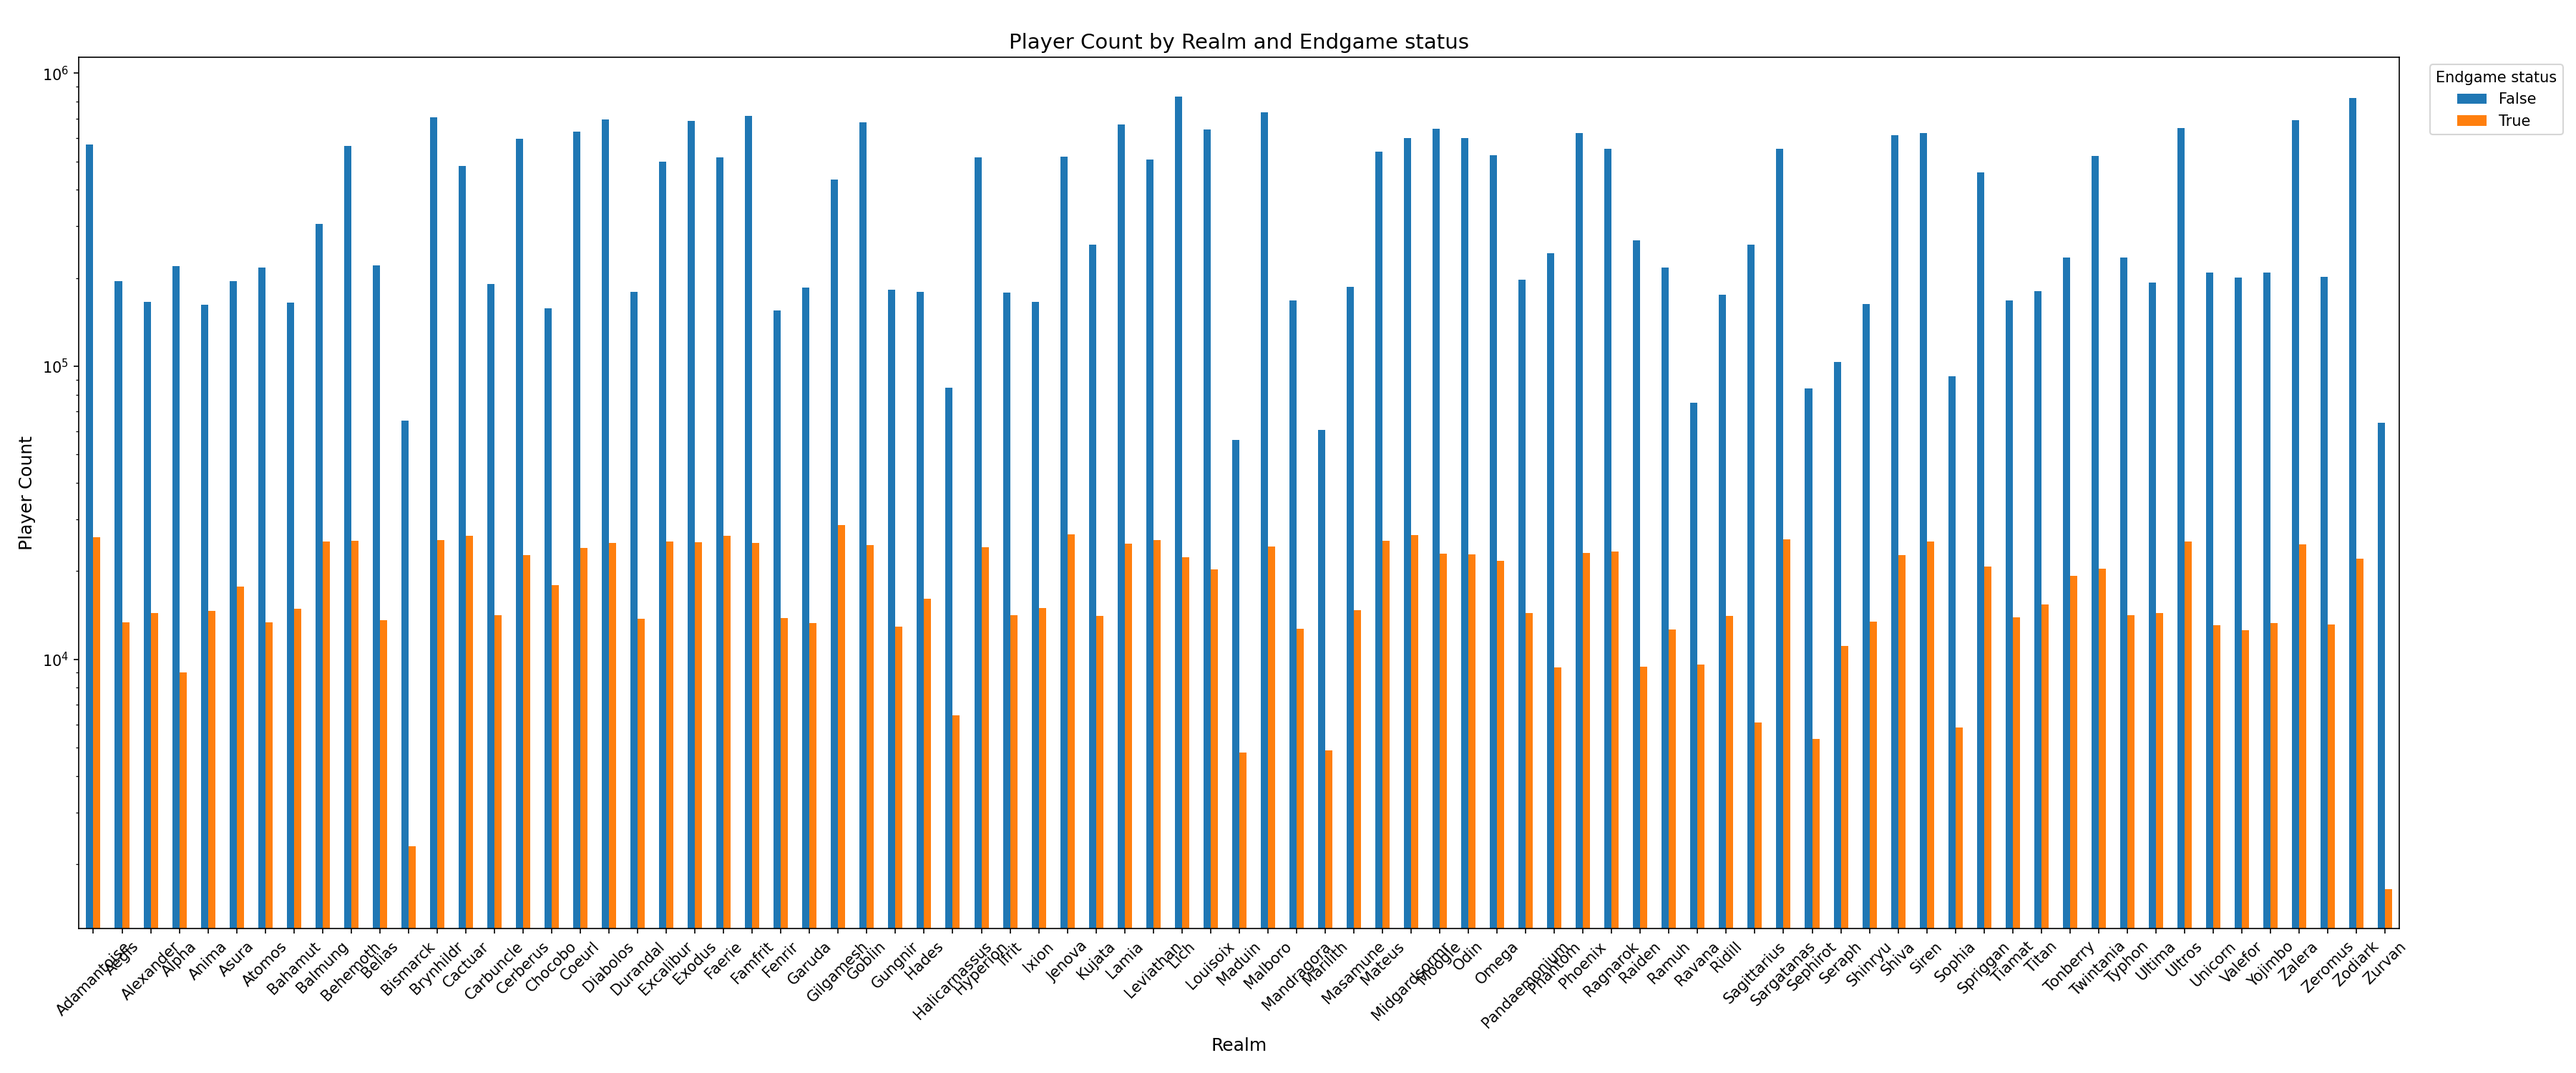
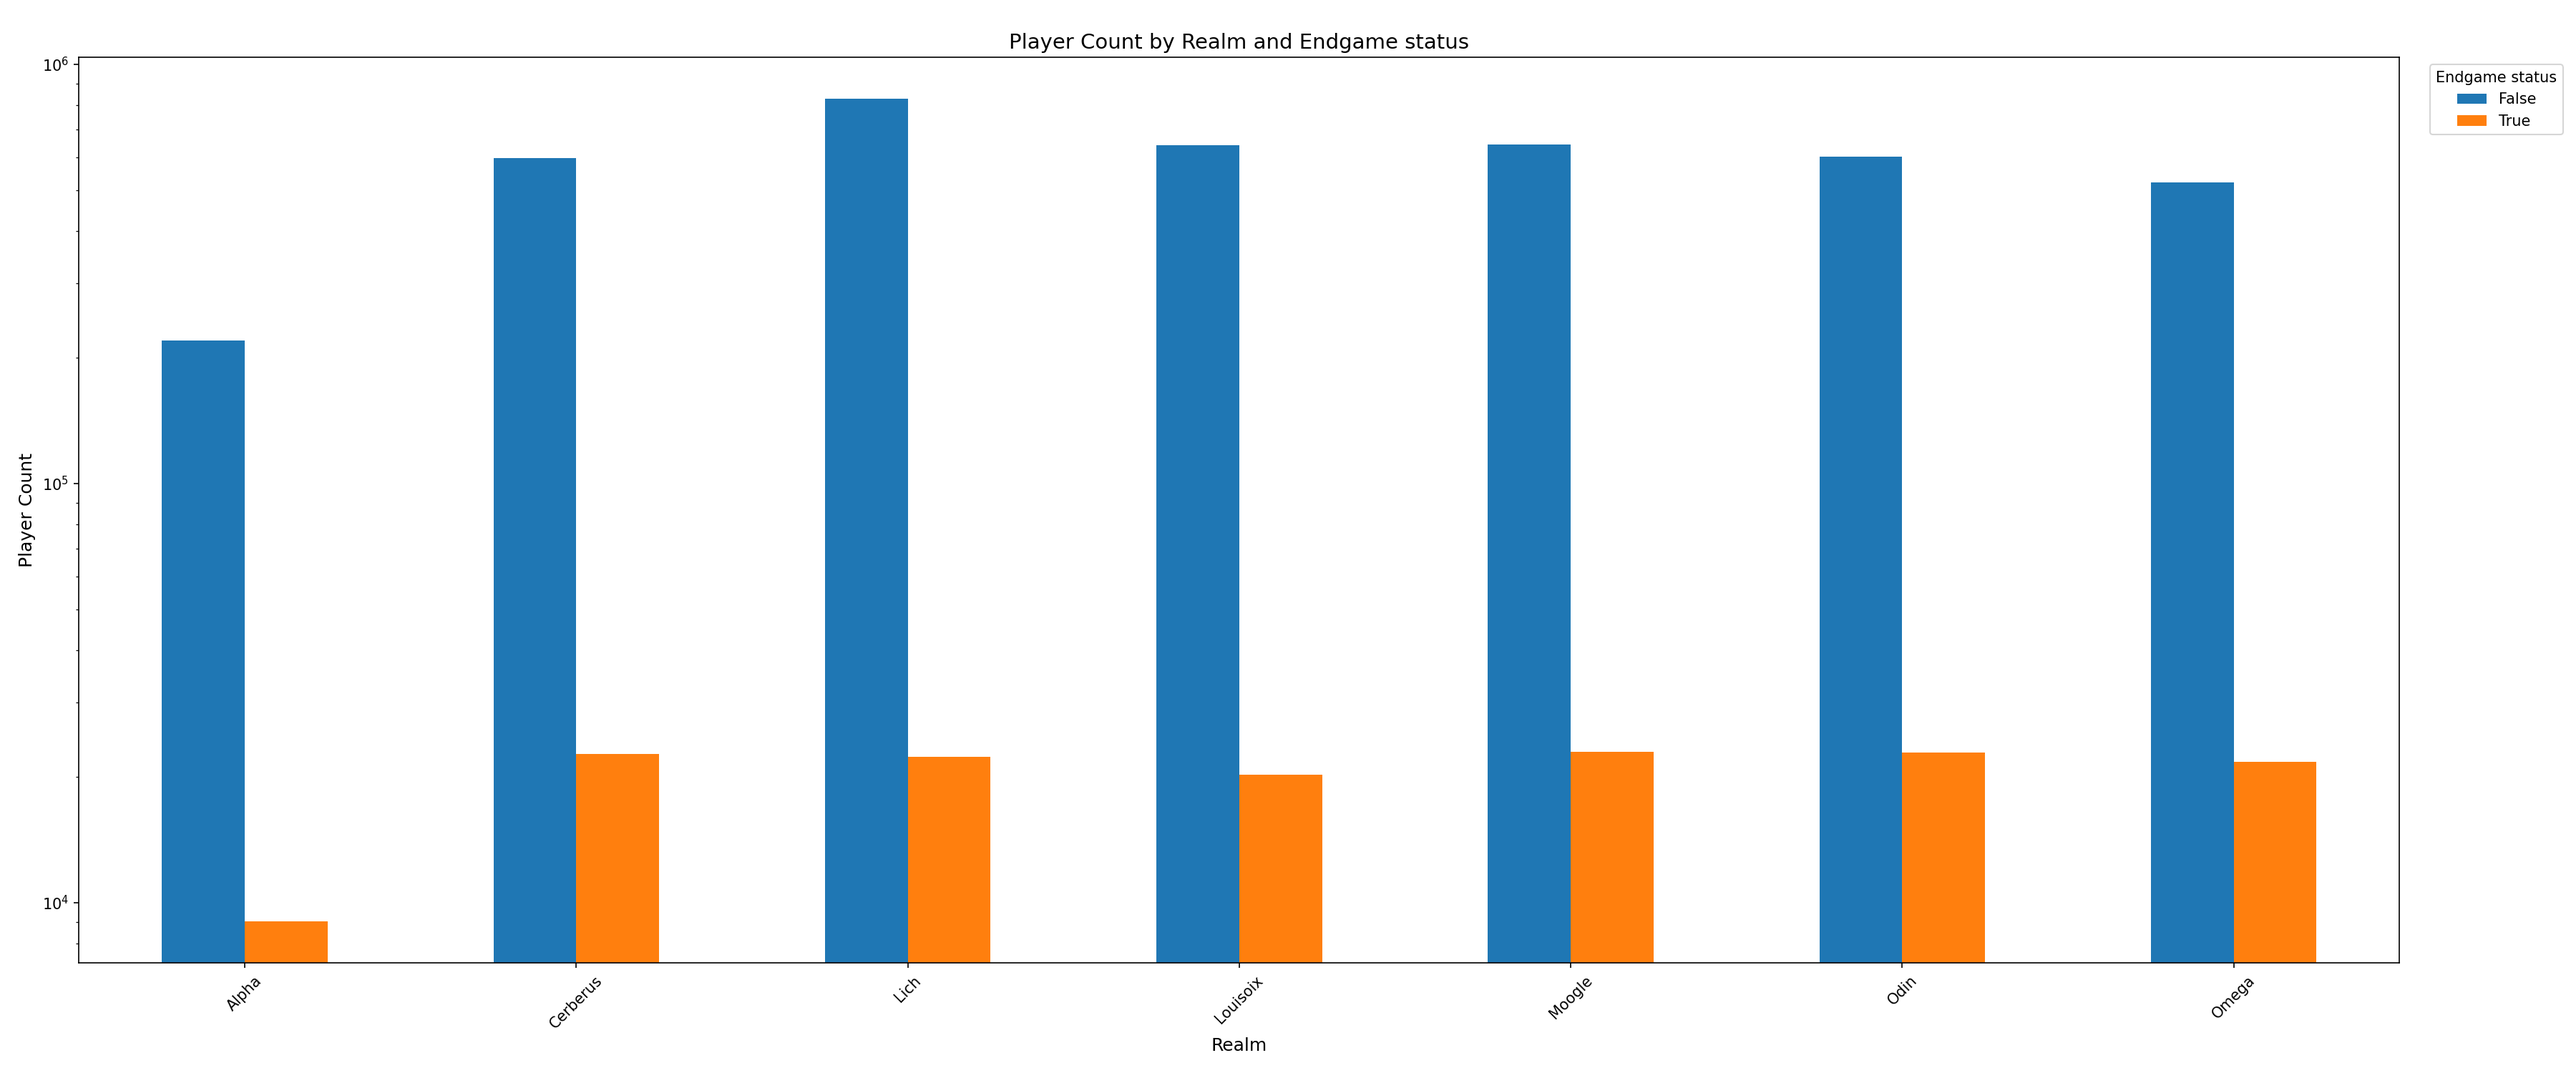
research questions

diff --git a/src/visualization.py b/src/visualization.py
@@ -16,7 +16,11 @@ def visualize_Normal(input):
     plotPie(df)
 
 def plotBar1(df):
+    #2
     #Bar Plot
+    SELECTED_REALMS = ["Alpha", "Cerberus","Lich","Louisoix","Moogle","Odin","Omega"]  # <-- european realms
+ 
+    df = df[df["Dim_Realms"].isin(SELECTED_REALMS)]
     pivot = df.pivot_table(
     index="Dim_Realms",
     columns="Dim_isEndgame",
@@ -37,8 +41,12 @@ def plotBar1(df):
     plt.savefig("ffxiv_Bar_PlayerEndgameRealm.png", dpi=150)
 
 def plotBox(df):
+    #2
     #Box Plot
 
+    SELECTED_REALMS = ["Alpha", "Cerberus","Lich","Louisoix","Moogle","Odin","Omega"]  # <-- european realms
+ 
+    df = df[df["Dim_Realms"].isin(SELECTED_REALMS)]
     realms = df["Dim_Realms"].unique()
     COLS_PER_ROW = 22
     n_cols = min(COLS_PER_ROW, len(realms))
@@ -74,8 +82,9 @@ def plotBox(df):
     plt.savefig("ffxiv_Box_PlayerEndgameRealm.png", dpi=150)
 
 def plotBarStacked(df):
+    #1
     #Box plot stacked
-    SELECTED_REALMS = ["Alpha", "Cerberus","Lich","Louisoix","Moogle","Odin","Omega"]  # <-- european realms
+    SELECTED_REALMS = ["Lich"] 
  
     df_filtered = df[df["Dim_Realms"].isin(SELECTED_REALMS)]
  
